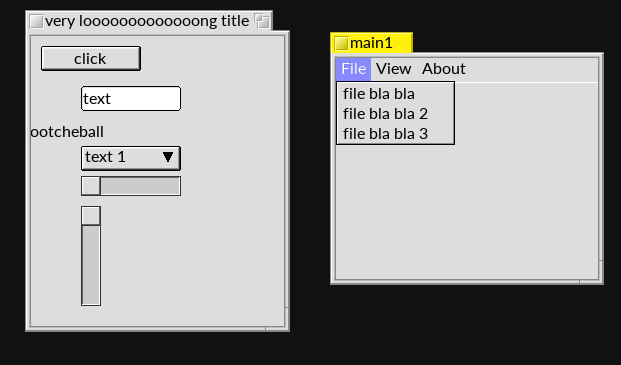
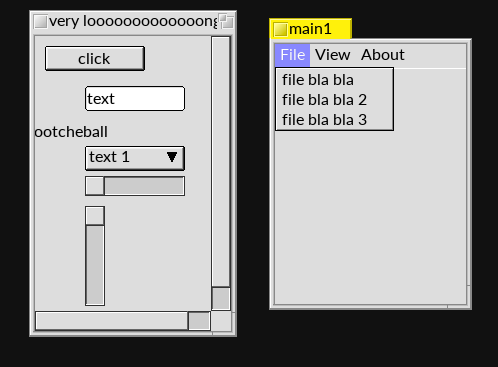
debug

Changed region(s): [[0.0301, 0.0301, 0.4819, 0.9342], [0.512, 0.0301, 0.994, 0.8438]]

diff --git a/scrollbarwidget.go b/scrollbarwidget.go
@@ -31,6 +31,13 @@ func (self *SWS_ScrollbarWidget) SetMinimum(m int32) {
 
 func (self *SWS_ScrollbarWidget) SetMaximum(m int32) {
 	self.maximum=m
+	if self.maximum<self.minimum {
+		self.maximum=self.minimum
+	}
+	if self.Currentposition > self.maximum {
+		self.Currentposition = self.maximum
+		if (self.callback!=nil) { self.callback(self.Currentposition) }
+	}
 }
 
 func (self *SWS_ScrollbarWidget) MousePressDown(x, y int32, button uint8) {
@@ -38,11 +45,14 @@ func (self *SWS_ScrollbarWidget) MousePressDown(x, y int32, button uint8) {
 	if button == sdl.BUTTON_LEFT {
 		self.buttondown = true
 		if self.horizontal {
-			w := self.Width() * self.Width() / (self.maximum - self.minimum)
+			w := self.Width() * self.Width() / (self.maximum - self.minimum + self.Width())
 			if w < 20 {
 				w = 20
 			}
-			offset := (self.Width() - w) * (self.Currentposition - self.minimum) / (self.maximum - self.minimum)
+			var offset int32
+			if self.maximum > self.minimum {
+				offset = (self.Width() - w) * (self.Currentposition - self.minimum) / (self.maximum - self.minimum)
+			}
 			if x < offset {
 				// click before
 				self.Currentposition -= (self.maximum - self.minimum) / 10
@@ -80,11 +90,14 @@ func (self *SWS_ScrollbarWidget) MousePressDown(x, y int32, button uint8) {
 				self.initialpos = x - offset
 			}
 		} else {
-			h := self.Height() * self.Height() / (self.maximum - self.minimum)
+			h := self.Height() * self.Height() / (self.maximum - self.minimum + self.Height())
 			if h < 20 {
 				h = 20
 			}
-			offset := (self.Height() - h) * (self.Currentposition - self.minimum) / (self.maximum - self.minimum)
+			var offset int32
+			if self.maximum > self.minimum {
+				offset = (self.Height() - h) * (self.Currentposition - self.minimum) / (self.maximum - self.minimum)
+			}
 			if y < offset {
 				// click before
 				self.Currentposition -= (self.maximum - self.minimum) / 10
@@ -139,7 +152,7 @@ func (self *SWS_ScrollbarWidget) MousePressUp(x, y int32, button uint8) {
 func (self *SWS_ScrollbarWidget) MouseMove(x, y, xrel, yrel int32) {
 	if self.buttondown == true && self.onelevator {
 		if self.horizontal {
-			w := self.Width() * self.Width() / (self.maximum - self.minimum)
+			w := self.Width() * self.Width() / (self.maximum - self.minimum  + self.Width())
 			if w < 20 {
 				w = 20
 			}
@@ -155,7 +168,7 @@ func (self *SWS_ScrollbarWidget) MouseMove(x, y, xrel, yrel int32) {
 			if (self.callback!=nil) { self.callback(self.Currentposition) }
 			PostUpdate()
 		} else {
-			h := self.Height() * self.Height() / (self.maximum - self.minimum)
+			h := self.Height() * self.Height() / (self.maximum - self.minimum + self.Height())
 			if h < 20 {
 				h = 20
 			}
@@ -188,11 +201,14 @@ func (self *SWS_ScrollbarWidget) Repaint() {
 	self.DrawLine(1, self.Height()-2, self.Width()-2, self.Height()-2)
 	self.DrawLine(self.Width()-2, 1, self.Width()-2, self.Height()-2)
 	if self.horizontal {
-		w := self.Width() * self.Width() / (self.maximum - self.minimum)
+		w := self.Width() * self.Width() / (self.maximum - self.minimum + self.Width())
 		if w < 20 {
 			w = 20
 		}
-		offset := (self.Width() - w) * (self.Currentposition - self.minimum) / (self.maximum - self.minimum)
+		var offset int32
+		if (self.maximum>self.minimum) {
+			offset = (self.Width() - w) * (self.Currentposition - self.minimum) / (self.maximum - self.minimum)
+		}
 		self.SetDrawColor(50, 50, 50, 255)
 		self.DrawLine(offset, 0, offset+w-1, 0)
 		self.DrawLine(offset+w-1, 0, offset+w-1, self.Height()-1)
@@ -206,11 +222,14 @@ func (self *SWS_ScrollbarWidget) Repaint() {
 		self.DrawLine(offset+1, self.Height()-2, offset+w-2, self.Height()-2)
 		self.FillRect(offset+2, 2, w-4, self.Height()-4, 0xffdddddd)
 	} else {
-		h := self.Height() * self.Height() / (self.maximum - self.minimum)
+		h := self.Height() * self.Height() / (self.maximum - self.minimum + self.Height())
 		if h < 20 {
 			h = 20
 		}
-		offset := (self.Height() - h) * (self.Currentposition - self.minimum) / (self.maximum - self.minimum)
+		var offset int32
+		if (self.maximum>self.minimum) {
+			offset = (self.Height() - h) * (self.Currentposition - self.minimum) / (self.maximum - self.minimum)
+		}
 		self.SetDrawColor(50, 50, 50, 255)
 		self.DrawLine(0, offset, 0, offset+h-1)
 		self.DrawLine(0, offset+h-1, self.Width()-1, offset+h-1)
